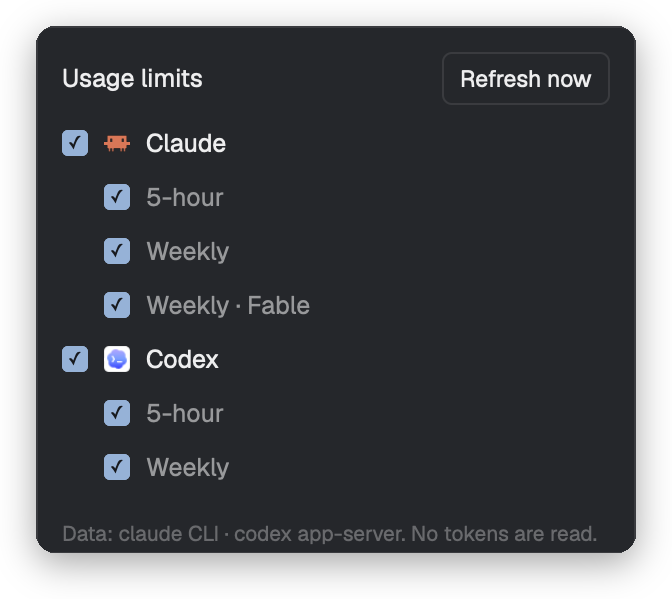
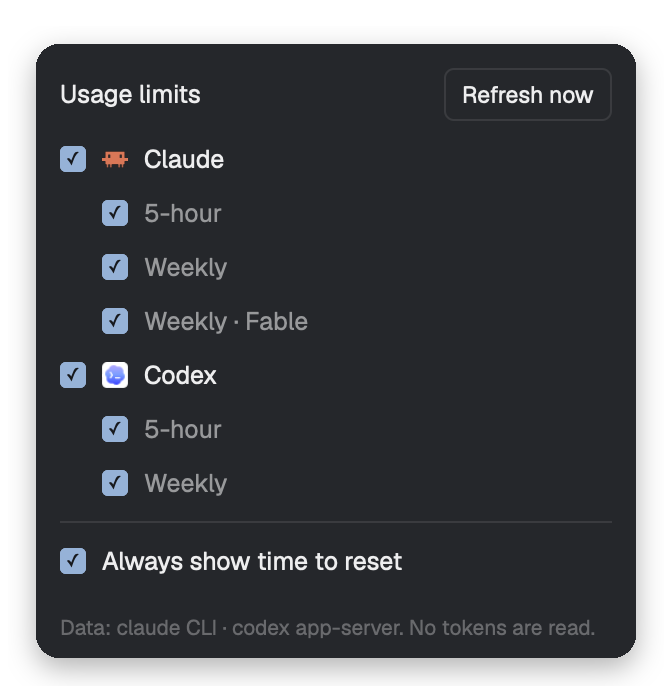
feat: option to always show the time to reset
A popup checkbox adds the time to every window, not only amber and red
ones. Off by default, and a layout can preset it with showResetTime.

A narrow bar drops the time on calm windows last, so providers still fit.
The popup height now matches its real 27px rows.

Claude-Session: https://claude.ai/code/session_01RxGX2diawmGKELtVSzaZVm

diff --git a/mods/usage-limits/main.js b/mods/usage-limits/main.js
@@ -8,7 +8,7 @@ import { h_flex, v_flex } from "gpui-base";
 import { exec, theme, run, props, shared, setShared, appHome, openOverlay, closeOverlay } from "herdr";
 import { PROVIDERS } from "./providers/index.js";
 import { barModel, chooseDensity, tooltipText } from "./lib/view.js";
-import { effectivePrefs, isShown, toggleProvider, toggleWindow } from "./lib/prefs.js";
+import { effectivePrefs, isShown, toggleProvider, toggleShowResetTime, toggleWindow } from "./lib/prefs.js";
 import { nextState } from "./lib/state.js";
 
 const MOD = "usage-limits";
@@ -19,10 +19,12 @@ const FETCH_EVERY = 5 * 60;       // s, installed providers
 const MISSING_EVERY = 60 * 60;    // s, not-installed providers
 const REFRESH_COOLDOWN = 30;      // s
 const BAR_W = 30;
+const POPUP_BASE_H = 118;          // px: header, footer, padding, the options row and its rule
+const POPUP_ROW_H = 27;            // px, one provider or window row
 
 const now = () => Math.floor(Date.now() / 1000);
 const states = () => shared(KEY_STATE) ?? {};
-const presets = (p) => ({ hidden: p?.hidden ?? [], hiddenWindows: p?.hiddenWindows ?? [] });
+const presets = (p) => ({ hidden: p?.hidden ?? [], hiddenWindows: p?.hiddenWindows ?? [], showResetTime: p?.showResetTime === true });
 
 function levelColor(level, t) {
   if (level === "hot") return t.ansi1 ?? t.blocked;
@@ -83,7 +85,7 @@ export default class UsageLimits extends View {
       const s = states()[p.id];
       return n + 1 + ((s?.report?.status === "ok" ? s.report : s?.lastGood)?.windows.length ?? 0);
     }, 0);
-    openOverlay({ kind: "popup", mod: MOD, props: { view: "settings", presets: presets(props()) }, width: 300, height: 96 + rows * 24 });
+    openOverlay({ kind: "popup", mod: MOD, props: { view: "settings", presets: presets(props()) }, width: 300, height: POPUP_BASE_H + rows * POPUP_ROW_H });
   }
 
   // ---------- status bar ----------
@@ -96,7 +98,7 @@ export default class UsageLimits extends View {
         div().relative().w(BAR_W).h(4).rounded(2).bg(t.border)
           .child(div().absolute().left(0).top(0).h(4).rounded(2).w(Math.round(BAR_W * s.fill)).bg(color))
           .when(s.tick != null, (b) => b.child(div().absolute().top(-2).left(Math.round(BAR_W * s.tick)).w(1).h(8).bg(t.foreground).opacity(0.75)))))
-      .child(div().whitespace_nowrap().text_color(s.level === "ok" ? (s.text === "—" ? t.dim : t.foreground) : color).child(s.text));
+      .child(div().whitespace_nowrap().text_color(s.level === "ok" ? (s.text === "—" ? t.dim : t.foreground) : color).child(density === 3 ? s.brief : s.text));
   }
 
   renderBar(cx) {
@@ -168,6 +170,9 @@ export default class UsageLimits extends View {
             .on_click((_e, cx) => { setShared(KEY_REFRESH, Date.now()); cx.notify(); }))
           .child(cooling ? "Refreshing…" : "Refresh now")))
       .child(v_flex().gap(1).children(rows))
+      .child(div().h(1).bg(t.border).flex_none())
+      .child(this.check("opt-reset-time", prefs.showResetTime, [div().text_color(t.foreground).child("Always show time to reset")],
+        () => save(toggleShowResetTime(this.prefs())), t))
       .child(div().flex_1())
       .child(div().text_size(10.5).text_color(t.dim).child("Data: claude CLI · codex app-server. No tokens are read."));
   }

diff --git a/mods/usage-limits/test/prefs.test.js b/mods/usage-limits/test/prefs.test.js
@@ -1,13 +1,13 @@
 import { test } from "node:test";
 import assert from "node:assert/strict";
-import { effectivePrefs, isShown, toggleProvider, toggleWindow } from "../lib/prefs.js";
+import { effectivePrefs, isShown, toggleProvider, toggleShowResetTime, toggleWindow } from "../lib/prefs.js";
 
 test("layout presets apply until saved prefs exist", () => {
   const props = { hidden: ["codex"], hiddenWindows: ["claude:session"] };
-  assert.deepEqual(effectivePrefs(null, props), { hidden: ["codex"], hiddenWindows: ["claude:session"] });
-  assert.deepEqual(effectivePrefs({ hidden: [], hiddenWindows: [] }, props), { hidden: [], hiddenWindows: [] });
-  assert.deepEqual(effectivePrefs(null, {}), { hidden: [], hiddenWindows: [] });
-  assert.deepEqual(effectivePrefs(undefined, undefined), { hidden: [], hiddenWindows: [] });
+  assert.deepEqual(effectivePrefs(null, props), { hidden: ["codex"], hiddenWindows: ["claude:session"], showResetTime: false });
+  assert.deepEqual(effectivePrefs({ hidden: [], hiddenWindows: [] }, props), { hidden: [], hiddenWindows: [], showResetTime: false });
+  assert.deepEqual(effectivePrefs(null, {}), { hidden: [], hiddenWindows: [], showResetTime: false });
+  assert.deepEqual(effectivePrefs(undefined, undefined), { hidden: [], hiddenWindows: [], showResetTime: false });
 });
 
 test("anything not listed is shown, including new windows", () => {
@@ -28,4 +28,25 @@ test("toggles round-trip and don't mutate", () => {
   const p2 = toggleWindow(p0, "claude", "weekly_scoped:Fable");
   assert.deepEqual(p2.hiddenWindows, ["claude:weekly_scoped:Fable"]);
   assert.deepEqual(toggleWindow(p2, "claude", "weekly_scoped:Fable").hiddenWindows, []);
+});
+
+test("reset time is off by default and a layout can preset it", () => {
+  assert.equal(effectivePrefs(null, {}).showResetTime, false);
+  assert.equal(effectivePrefs(null, { showResetTime: true }).showResetTime, true);
+  assert.equal(effectivePrefs({ hidden: [], hiddenWindows: [] }, { showResetTime: true }).showResetTime, false, "saved prefs win");
+});
+
+test("toggleShowResetTime round-trips and doesn't mutate", () => {
+  const p0 = { hidden: ["codex"], hiddenWindows: [], showResetTime: false };
+  const p1 = toggleShowResetTime(p0);
+  assert.equal(p1.showResetTime, true);
+  assert.equal(p0.showResetTime, false);
+  assert.deepEqual(p1.hidden, ["codex"]);
+  assert.equal(toggleShowResetTime(p1).showResetTime, false);
+});
+
+test("hiding a provider or window keeps the reset time choice", () => {
+  const p = { hidden: [], hiddenWindows: [], showResetTime: true };
+  assert.equal(toggleProvider(p, "codex").showResetTime, true);
+  assert.equal(toggleWindow(p, "claude", "session").showResetTime, true);
 });

diff --git a/mods/usage-limits/lib/view.js b/mods/usage-limits/lib/view.js
@@ -5,16 +5,20 @@ import { PROVIDERS } from "../providers/index.js";
 
 const STALE_AFTER = 15 * 60; // s
 
-export function segmentView(w, now) {
+// text is the full reading; brief is what's left when the bar runs out of room:
+// an amber or red window keeps its time, a calm one gives it up.
+export function segmentView(w, now, showResetTime = false) {
   if (w.resetsAt != null && w.resetsAt <= now) {
-    return { id: w.id, short: w.short, text: "—", level: "ok", fill: 0, tick: null, expired: true };
+    return { id: w.id, short: w.short, text: "—", brief: "—", level: "ok", fill: 0, tick: null, expired: true };
   }
   const lv = level(w.percent);
-  const left = lv !== "ok" && w.resetsAt != null ? ` · ${timeLeft(w.resetsAt - now)}` : "";
+  const left = w.resetsAt != null ? ` · ${timeLeft(w.resetsAt - now)}` : "";
+  const brief = `${w.percent}%${lv !== "ok" ? left : ""}`;
   return {
     id: w.id,
     short: w.short,
-    text: `${w.percent}%${left}`,
+    text: showResetTime ? `${w.percent}%${left}` : brief,
+    brief,
     level: lv,
     fill: Math.min(1, Math.max(0, w.percent / 100)),
     tick: pace(w, now)?.elapsed ?? null,
@@ -71,7 +75,7 @@ export function barModel(states, prefs, now, providers = PROVIDERS) {
     }
     const segments = (source?.windows ?? [])
       .filter((w) => isShown(prefs, p.id, w.id))
-      .map((w) => segmentView(w, now));
+      .map((w) => segmentView(w, now, prefs.showResetTime));
     const dim = mark === "!" || (source != null && now - source.observedAt > STALE_AFTER);
     groups.push({ providerId: p.id, name: p.name, icon: p.icon, mark, dim, segments });
   }
@@ -81,17 +85,17 @@ export function barModel(states, prefs, now, providers = PROVIDERS) {
 // Rough text widths at 11.8px (labels 10.5px): enough to pick a density, not to lay out.
 const GROUP = 20; // icon + gaps
 function segmentWidth(s, density) {
-  const text = 7 * s.text.length + 12;
-  if (density === 2) return text;
+  const text = 7 * (density === 3 ? s.brief : s.text).length + 12;
+  if (density >= 2) return text;
   const label = 8 + 6.5 * s.short.length;
   return density === 1 ? label + text : label + 30 + text;
 }
 
-// 0 = label + bar + percent, 1 = no bars, 2 = percents only.
+// 0 = label + bar + percent, 1 = no bars, 2 = no labels, 3 = no time on calm windows.
 export function chooseDensity(model, widthPx) {
-  for (const d of [0, 1, 2]) {
+  for (const d of [0, 1, 2, 3]) {
     const need = model.groups.reduce((sum, g) => sum + GROUP + g.segments.reduce((a, s) => a + segmentWidth(s, d), 0), 0);
     if (need <= widthPx) return d;
   }
-  return 2;
+  return 3;
 }

diff --git a/mods/usage-limits/test/view.test.js b/mods/usage-limits/test/view.test.js
@@ -126,5 +126,38 @@ test("chooseDensity: full at 600px, no bars at 400px, percents only at 140px", (
   const m = barModel(STATES(), PREFS, NOW);
   assert.equal(chooseDensity(m, 600), 0);
   assert.equal(chooseDensity(m, 400), 1);
-  assert.equal(chooseDensity(m, 140), 2);
+  assert.equal(chooseDensity(m, 140), 3);
+});
+
+// ---- reset time always on ----
+
+test("showResetTime: a calm window shows its time too", () => {
+  assert.equal(segmentView(W(), NOW, true).text, "50% · 2d 10h");
+});
+
+test("showResetTime off: a calm window stays percent only", () => {
+  assert.equal(segmentView(W(), NOW, false).text, "50%");
+});
+
+test("brief drops the time of a calm window only", () => {
+  assert.equal(segmentView(W(), NOW, true).brief, "50%");
+  assert.equal(segmentView(W({ percent: 74 }), NOW, true).brief, "74% · 2d 10h");
+});
+
+test("showResetTime: no reset known, or already passed, adds no time", () => {
+  assert.equal(segmentView(W({ resetsAt: null }), NOW, true).text, "50%");
+  const s = segmentView(W({ resetsAt: NOW - 1 }), NOW, true);
+  assert.deepEqual([s.text, s.brief], ["—", "—"]);
+});
+
+test("barModel: applies showResetTime from prefs", () => {
+  const texts = (prefs) => barModel(STATES(), prefs, NOW).groups[0].segments.map((s) => s.text);
+  assert.ok(texts({ ...PREFS, showResetTime: true }).every((t) => t.includes(" · ")));
+  assert.ok(!texts(PREFS).some((t) => t.includes(" · ")));
+});
+
+test("chooseDensity: times of calm windows go last, so providers still fit", () => {
+  const on = barModel(STATES(), { ...PREFS, showResetTime: true }, NOW);
+  assert.equal(chooseDensity(on, 2000), 0);
+  assert.equal(chooseDensity(on, 300), 3);
 });

diff --git a/mods/usage-limits/lib/prefs.js b/mods/usage-limits/lib/prefs.js
@@ -1,11 +1,16 @@
 // What the person chose to see. Opt-out lists, so anything new shows by itself.
-// Prefs: { hidden: [providerId], hiddenWindows: ["<providerId>:<windowId>"] }
+// Prefs: { hidden: [providerId], hiddenWindows: ["<providerId>:<windowId>"], showResetTime: bool }
+// showResetTime: every window shows its time to reset, not only amber and red ones.
 
-const lists = (p) => ({ hidden: [...(p?.hidden ?? [])], hiddenWindows: [...(p?.hiddenWindows ?? [])] });
+const normalize = (p) => ({
+  hidden: [...(p?.hidden ?? [])],
+  hiddenWindows: [...(p?.hiddenWindows ?? [])],
+  showResetTime: p?.showResetTime === true,
+});
 
 // Saved choices win once they exist; until then the layout's props preset them.
 export function effectivePrefs(saved, props) {
-  return saved ? lists(saved) : lists(props);
+  return normalize(saved ?? props);
 }
 
 export function isShown(prefs, providerId, windowId) {
@@ -16,9 +21,13 @@ export function isShown(prefs, providerId, windowId) {
 const flip = (list, item) => (list.includes(item) ? list.filter((x) => x !== item) : [...list, item]);
 
 export function toggleProvider(prefs, providerId) {
-  return { ...lists(prefs), hidden: flip(prefs.hidden, providerId) };
+  return { ...normalize(prefs), hidden: flip(prefs.hidden, providerId) };
 }
 
 export function toggleWindow(prefs, providerId, windowId) {
-  return { ...lists(prefs), hiddenWindows: flip(prefs.hiddenWindows, `${providerId}:${windowId}`) };
+  return { ...normalize(prefs), hiddenWindows: flip(prefs.hiddenWindows, `${providerId}:${windowId}`) };
+}
+
+export function toggleShowResetTime(prefs) {
+  return { ...normalize(prefs), showResetTime: !prefs.showResetTime };
 }

diff --git a/RECIPE.md b/RECIPE.md
@@ -23,12 +23,14 @@ It never reads a token.
   - the percent in `foreground`.
 - Colors by percent: under 70 `ansi2` (green), 70–89 `ansi3` (amber), 90+
   `ansi1` (red). Amber and red also color the text and add the time to reset:
-  `92% · 38m`, `74% · 2d 10h`.
+  `92% · 38m`, `74% · 2d 10h`. With "Always show time to reset" ticked, green
+  windows add it too.
 - Hover a group: provider, plan, "updated N min ago", then one line per window
   with its long name, percent, reset time on the local clock (`resets Fri
   14:00`) and pace verdict (`ahead`, `on pace`, `under`).
 - Click the block: a popup with a checkbox per provider and, under it, per
-  window; "Refresh now" (30 s cooldown); a footnote on where data comes from.
+  window; "Always show time to reset" (off by default); "Refresh now" (30 s
+  cooldown); a footnote on where data comes from.
 
 ## How it behaves
 
@@ -61,7 +63,7 @@ It never reads a token.
   ```
 
   Optional presets in `content.props`: `{ "hidden": ["codex"],
-  "hiddenWindows": ["claude:session"] }` (used until the person changes
+  "hiddenWindows": ["claude:session"], "showResetTime": true }` (used until the person changes
   anything in the popup).
 - `mods/usage-limits/`:
   - `main.js`: the only file using `gpui-kit`/`herdr`. Bar or popup by
@@ -72,7 +74,7 @@ It never reads a token.
     parse(text, now) → Report }`; `providers/index.js` lists them in order.
     A new provider is one more file there plus its helper.
   - `lib/`: `report.js` (shapes), `format.js` (time, colors, pace),
-    `prefs.js` (opt-out lists), `view.js` (segments, tooltip, bar model,
+    `prefs.js` (opt-out lists, reset time flag), `view.js` (segments, tooltip, bar model,
     density). Pure; tested with `node --test`.
   - `helpers/claude-usage.sh`: runs `claude -p --safe-mode
     --no-session-persistence --input-format stream-json --output-format

diff --git a/README.md b/README.md
@@ -41,6 +41,7 @@ to add, no token to read and no model usage to pay for.
 </div>
 
 Amber and red add the time to reset, so you know how long you'd have to wait.
+Tick **Always show time to reset** in the popup to see it on every window.
 
 Hover a provider for its plan, when it last updated, and each window's reset time and
 pace (`ahead`, `on pace`, `under`).
@@ -48,7 +49,7 @@ pace (`ahead`, `on pace`, `under`).
 ## Show only what you watch
 
 <p align="center">
-  <img src="assets/popup.png" width="400" alt="The settings popup: a checkbox per provider and per limit window, and a Refresh now button">
+  <img src="assets/popup.png" width="400" alt="The settings popup: a checkbox per provider and per limit window, Always show time to reset, and a Refresh now button">
 </p>
 
 Click the limits to choose providers and windows. A new window or a CLI you install
@@ -60,7 +61,7 @@ later shows up by itself, and hidden providers aren't fetched at all.
 - **Old numbers look old.** Anything over 15 minutes old is dimmed.
 - **A passed reset shows `—`** until the next reading, never a made-up 0%.
 - **Codex's session log is only a fallback.** It's marked as a past reading, never as live.
-- **Narrow window?** Bars go first, then labels. Percents and providers stay.
+- **Narrow window?** Bars go first, then labels, then the time on calm windows. Percents and providers stay.
 
 ## Install
 
